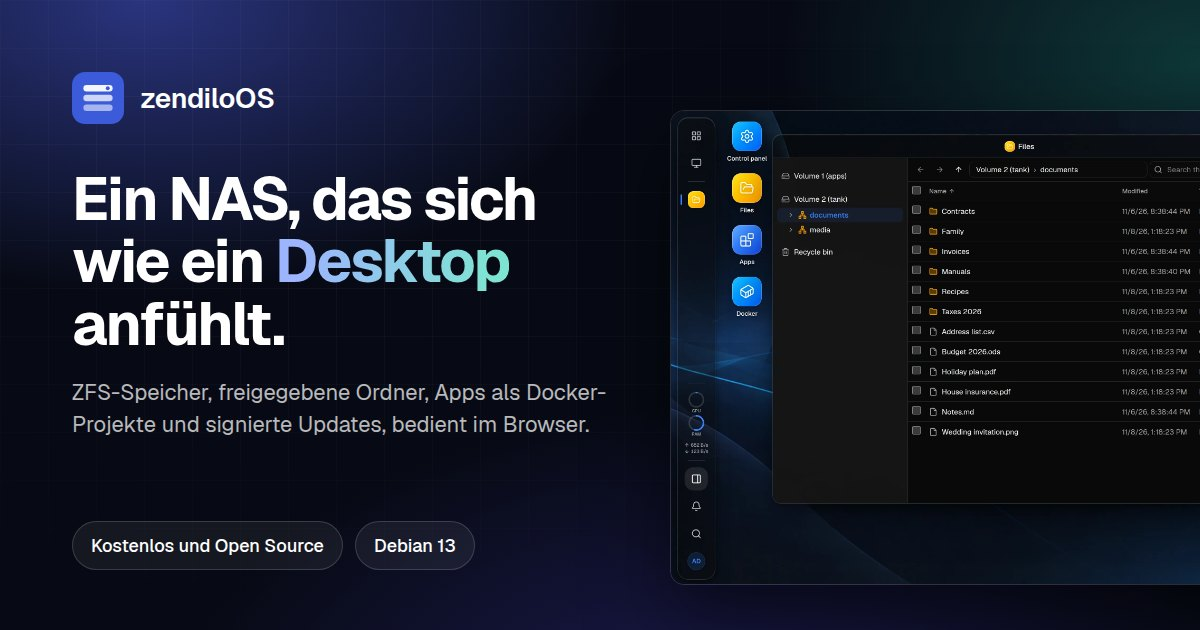
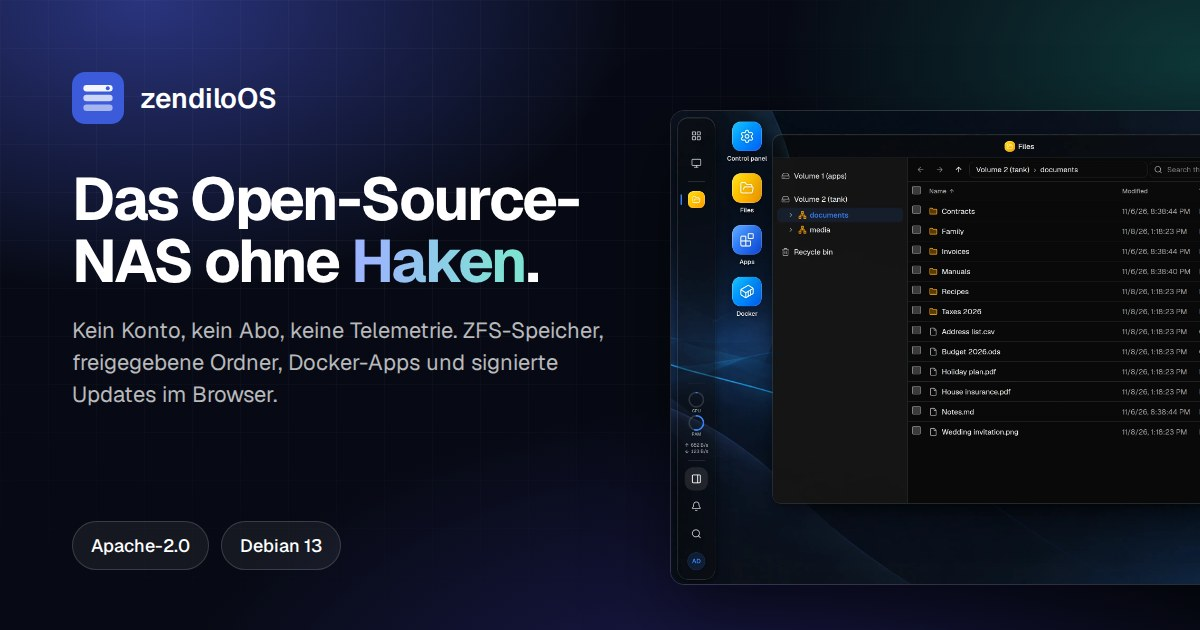
Lead with the open-source NAS without strings attached
The hero said the NAS feels like a desktop, which is how it looks, not
why to use it. It now reads "The open-source NAS, no strings attached"
("Das Open-Source-NAS ohne Haken"), and the lead names the strings
first: no account, no subscription, no telemetry.

The preview images for shared links follow, shot again from
tools/og.html; their pill shows the licence instead of repeating
"open source".

diff --git a/index.html b/index.html
@@ -53,8 +53,8 @@ try { if (!localStorage.getItem('zendiloos.lang') && /^de\b/i.test(navigator.lan
       <a class="pill" href="https://github.com/mavnezz/zendiloOS/releases/latest" data-release="zendiloOS {version} is out">
         <span class="pill-dot"></span><span data-release-text>Free and open source</span><svg class="i" width="14" height="14" viewBox="0 0 24 24" fill="none" stroke="currentColor" stroke-width="2" stroke-linecap="round" stroke-linejoin="round" aria-hidden="true"><path d="M5 12h14"/><path d="m12 5 7 7-7 7"/></svg>
       </a>
-      <h1>A NAS that feels like a <em>desktop</em>.</h1>
-      <p class="lead">zendiloOS turns a plain Debian 13 into a NAS you run from the browser: ZFS for your data, shared folders for every device in the house, apps as Docker projects of your own and updates with a click.</p>
+      <h1>The open-source NAS, no <em>strings attached</em>.</h1>
+      <p class="lead">No account, no subscription, no telemetry. zendiloOS turns a plain Debian 13 into a NAS you run from the browser: ZFS for your data, shared folders for every device in the house, apps as Docker projects of your own and updates with a click.</p>
       <div class="actions">
         <a class="btn btn-primary" href="https://github.com/mavnezz/zendiloOS/releases/latest/download/zendiloos-amd64-netinst.iso" data-download><svg class="i" width="18" height="18" viewBox="0 0 24 24" fill="none" stroke="currentColor" stroke-width="2" stroke-linecap="round" stroke-linejoin="round" aria-hidden="true"><path d="M12 15V3"/><path d="M21 15v4a2 2 0 0 1-2 2H5a2 2 0 0 1-2-2v-4"/><path d="m7 10 5 5 5-5"/></svg><span>Download the ISO</span></a>
         <a class="btn btn-glass" href="https://github.com/mavnezz/zendiloOS"><svg class="i" width="18" height="18" viewBox="0 0 16 16" fill="currentColor" aria-hidden="true"><path d="M8 0c4.42 0 8 3.58 8 8a8.013 8.013 0 0 1-5.45 7.59c-.4.08-.55-.17-.55-.38 0-.27.01-1.13.01-2.2 0-.75-.25-1.23-.54-1.48 1.78-.2 3.65-.88 3.65-3.95 0-.88-.31-1.59-.82-2.15.08-.2.36-1.02-.08-2.12 0 0-.67-.22-2.2.82-.64-.18-1.32-.27-2-.27-.68 0-1.36.09-2 .27-1.53-1.03-2.2-.82-2.2-.82-.44 1.1-.16 1.92-.08 2.12-.51.56-.82 1.28-.82 2.15 0 3.06 1.86 3.75 3.64 3.95-.23.2-.44.55-.51 1.07-.46.21-1.61.55-2.33-.66-.15-.24-.6-.83-1.23-.82-.67.01-.27.38.01.53.34.19.73.9.82 1.13.16.45.68 1.31 2.69.94 0 .67.01 1.3.01 1.49 0 .21-.15.45-.55.38A7.995 7.995 0 0 1 0 8c0-4.42 3.58-8 8-8Z"/></svg><span>View on GitHub</span></a>

diff --git a/de/index.html b/de/index.html
@@ -51,8 +51,8 @@
       <a class="pill" href="https://github.com/mavnezz/zendiloOS/releases/latest" data-release="zendiloOS {version} ist da">
         <span class="pill-dot"></span><span data-release-text>Kostenlos und Open Source</span><svg class="i" width="14" height="14" viewBox="0 0 24 24" fill="none" stroke="currentColor" stroke-width="2" stroke-linecap="round" stroke-linejoin="round" aria-hidden="true"><path d="M5 12h14"/><path d="m12 5 7 7-7 7"/></svg>
       </a>
-      <h1>Ein NAS, das sich wie ein <em>Desktop</em> anfühlt.</h1>
-      <p class="lead">zendiloOS macht aus einem gewöhnlichen Debian 13 ein NAS, das Sie im Browser bedienen: ZFS für Ihre Daten, freigegebene Ordner für jedes Gerät im Haus, Apps als Ihre eigenen Docker-Projekte und Updates per Klick.</p>
+      <h1>Das Open-Source-NAS ohne <em>Haken</em>.</h1>
+      <p class="lead">Kein Konto, kein Abo, keine Telemetrie. zendiloOS macht aus einem gewöhnlichen Debian 13 ein NAS, das Sie im Browser bedienen: ZFS für Ihre Daten, freigegebene Ordner für jedes Gerät im Haus, Apps als Ihre eigenen Docker-Projekte und Updates per Klick.</p>
       <div class="actions">
         <a class="btn btn-primary" href="https://github.com/mavnezz/zendiloOS/releases/latest/download/zendiloos-amd64-netinst.iso" data-download><svg class="i" width="18" height="18" viewBox="0 0 24 24" fill="none" stroke="currentColor" stroke-width="2" stroke-linecap="round" stroke-linejoin="round" aria-hidden="true"><path d="M12 15V3"/><path d="M21 15v4a2 2 0 0 1-2 2H5a2 2 0 0 1-2-2v-4"/><path d="m7 10 5 5 5-5"/></svg><span>ISO herunterladen</span></a>
         <a class="btn btn-glass" href="https://github.com/mavnezz/zendiloOS"><svg class="i" width="18" height="18" viewBox="0 0 16 16" fill="currentColor" aria-hidden="true"><path d="M8 0c4.42 0 8 3.58 8 8a8.013 8.013 0 0 1-5.45 7.59c-.4.08-.55-.17-.55-.38 0-.27.01-1.13.01-2.2 0-.75-.25-1.23-.54-1.48 1.78-.2 3.65-.88 3.65-3.95 0-.88-.31-1.59-.82-2.15.08-.2.36-1.02-.08-2.12 0 0-.67-.22-2.2.82-.64-.18-1.32-.27-2-.27-.68 0-1.36.09-2 .27-1.53-1.03-2.2-.82-2.2-.82-.44 1.1-.16 1.92-.08 2.12-.51.56-.82 1.28-.82 2.15 0 3.06 1.86 3.75 3.64 3.95-.23.2-.44.55-.51 1.07-.46.21-1.61.55-2.33-.66-.15-.24-.6-.83-1.23-.82-.67.01-.27.38.01.53.34.19.73.9.82 1.13.16.45.68 1.31 2.69.94 0 .67.01 1.3.01 1.49 0 .21-.15.45-.55.38A7.995 7.995 0 0 1 0 8c0-4.42 3.58-8 8-8Z"/></svg><span>Auf GitHub ansehen</span></a>

diff --git a/tools/og.html b/tools/og.html
@@ -41,10 +41,10 @@ p.lead { margin-top: 22px; width: 540px; font-size: 22px; line-height: 1.45; col
 <div class="shot"><img src="../assets/img/hero-dark.webp" alt=""></div>
 <script>
 const de = new URLSearchParams(location.search).get('lang') === 'de'
-document.getElementById('t').innerHTML = de ? 'Ein NAS, das sich wie ein <em>Desktop</em> anfühlt.' : 'A NAS that feels like a <em>desktop</em>.'
+document.getElementById('t').innerHTML = de ? 'Das Open-Source-NAS ohne <em>Haken</em>.' : 'The open-source NAS, no <em>strings attached</em>.'
 document.getElementById('l').textContent = de
-  ? 'ZFS-Speicher, freigegebene Ordner, Apps als Docker-Projekte und signierte Updates, bedient im Browser.'
-  : 'ZFS storage, shared folders, apps as Docker projects and signed updates, run from your browser.'
-document.getElementById('p1').textContent = de ? 'Kostenlos und Open Source' : 'Free and open source'
+  ? 'Kein Konto, kein Abo, keine Telemetrie. ZFS-Speicher, freigegebene Ordner, Docker-Apps und signierte Updates im Browser.'
+  : 'No account, no subscription, no telemetry. ZFS storage, shared folders, Docker apps and signed updates in your browser.'
+document.getElementById('p1').textContent = 'Apache-2.0'
 </script>
 </body></html>
